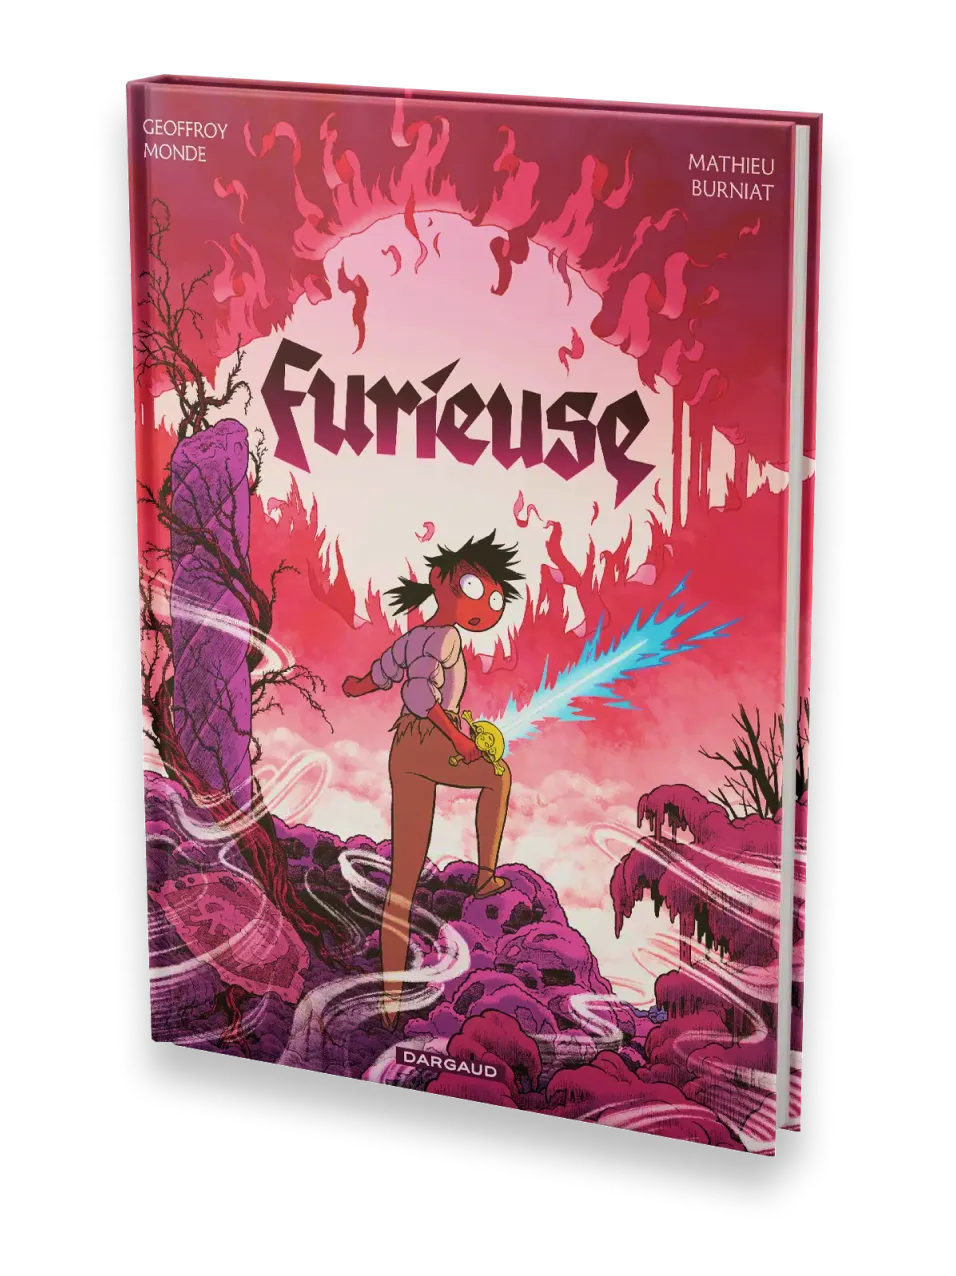
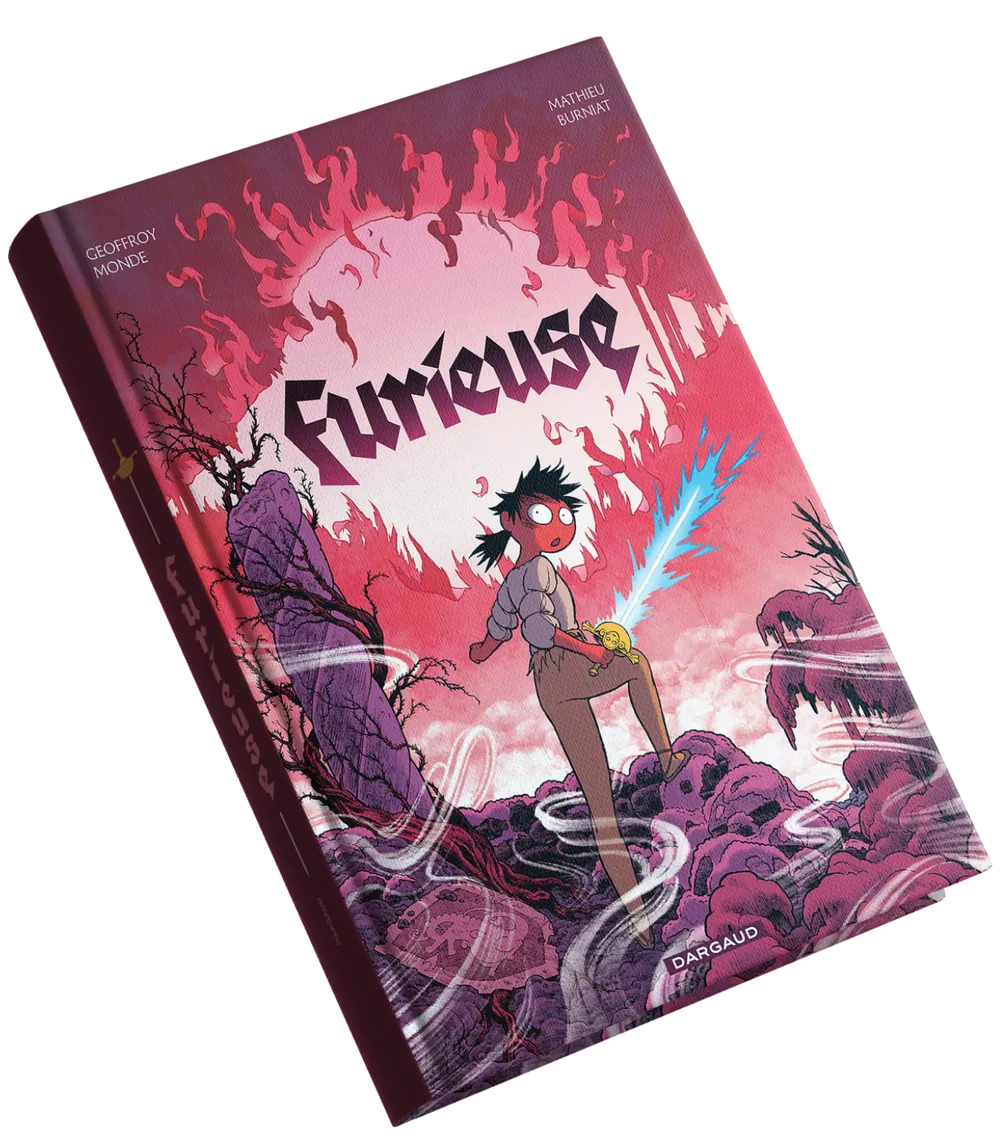
shop restart
j'ai recommencer le shop de 0

diff --git a/src/scss/modules/_shop.scss b/src/scss/modules/_shop.scss
@@ -1,30 +1,38 @@
-.shop {
+.shop-background {
   height: 100vh;
-  max-width: 100%;
+  position: absolute;
+}
+
+.shop {
   position: absolute;
   display: flex;
-  flex-flow: row nowrap;
-  justify-content: center;
+  height: 100vh;
+  width: 100%;
   align-items: center;
-  gap: 15svw;
+  padding: 0 2%;
+  gap: 12%;
 }
 
 .shop-mockup {
-  height: 700px;
-  transform: rotate(-15deg);
+  height: 600px;
+  rotate: 10deg;
 }
 
 .shop-info {
   display: flex;
+  width: 45svw;
   flex-direction: column;
-  justify-content: space-between;
   align-items: flex-start;
-  gap: 4vh;
+  gap: 8vh;
+}
+
+.shop-logo {
+  width: 450.532px;
+  height: 144px;
 }
 
 .shop-text {
   display: flex;
-  width: 40svw;
   flex-direction: column;
   align-items: flex-start;
   gap: 12px;
@@ -32,14 +40,4 @@
 
 .shop-hide {
   display: none;
-}
-
-.shop-background {
-  height: 100%;
-  position: absolute;
-}
-
-.shop-logo {
-  width: 450.532px;
-  height: 144px;
 }

diff --git a/src/scss/_base.scss b/src/scss/_base.scss
@@ -1,12 +1,8 @@
 * {
+  margin: 0;
+  padding: 0;
   --White: #ffff;
   --grey: #c9c8c8;
   --black: #000;
   --contrast: #fde174;
-}
-
-body {
-  margin: 0;
-  padding: 0;
-  width: 100%;
 }
